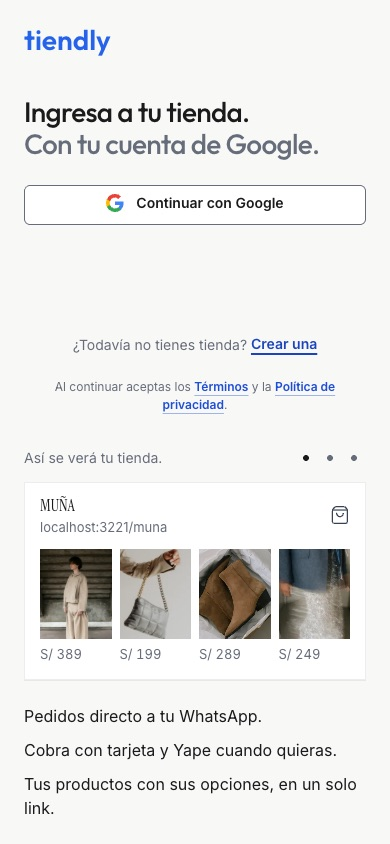
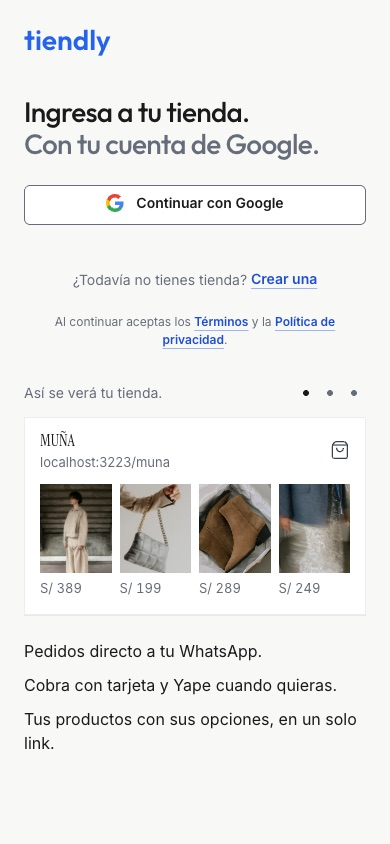
Registro solo con Google: el paso no se estira en móvil y se actualizan las capturas

diff --git a/src/features/onboarding/components/onboarding-flow.tsx b/src/features/onboarding/components/onboarding-flow.tsx
@@ -2,9 +2,11 @@
 
 import { AnimatePresence, motion } from "motion/react";
 import { useReducedMotion } from "@/components/motion/use-reduced-motion";
+import { cn } from "@/lib/cn";
 import { motionTokens } from "@/styles/tokens";
 import { TiendaDatosPreview } from "./tienda-datos-preview";
 import { useSlugCheck } from "../hooks/use-slug-check";
+import { ingresoCelularActivo } from "../lib/ingreso-celular";
 import { aSlug } from "../lib/slug";
 import { ShellRegistro } from "./shell-registro";
 import { StepCodigo } from "./step-codigo";
@@ -31,7 +33,8 @@ function Flujo() {
     <AnimatePresence mode="wait" initial={false}>
       <motion.div
         key={state.paso}
-        className="flex flex-1 flex-col"
+        // Solo con Google, el registro no se estira: el pie y la vista previa quedan junto al botón en móvil.
+        className={cn("flex flex-col", (state.paso !== "registro" || ingresoCelularActivo) && "flex-1")}
         initial={{ opacity: 0, x: desplazamiento }}
         animate={{ opacity: 1, x: 0 }}
         exit={{ opacity: 0, x: -desplazamiento }}
